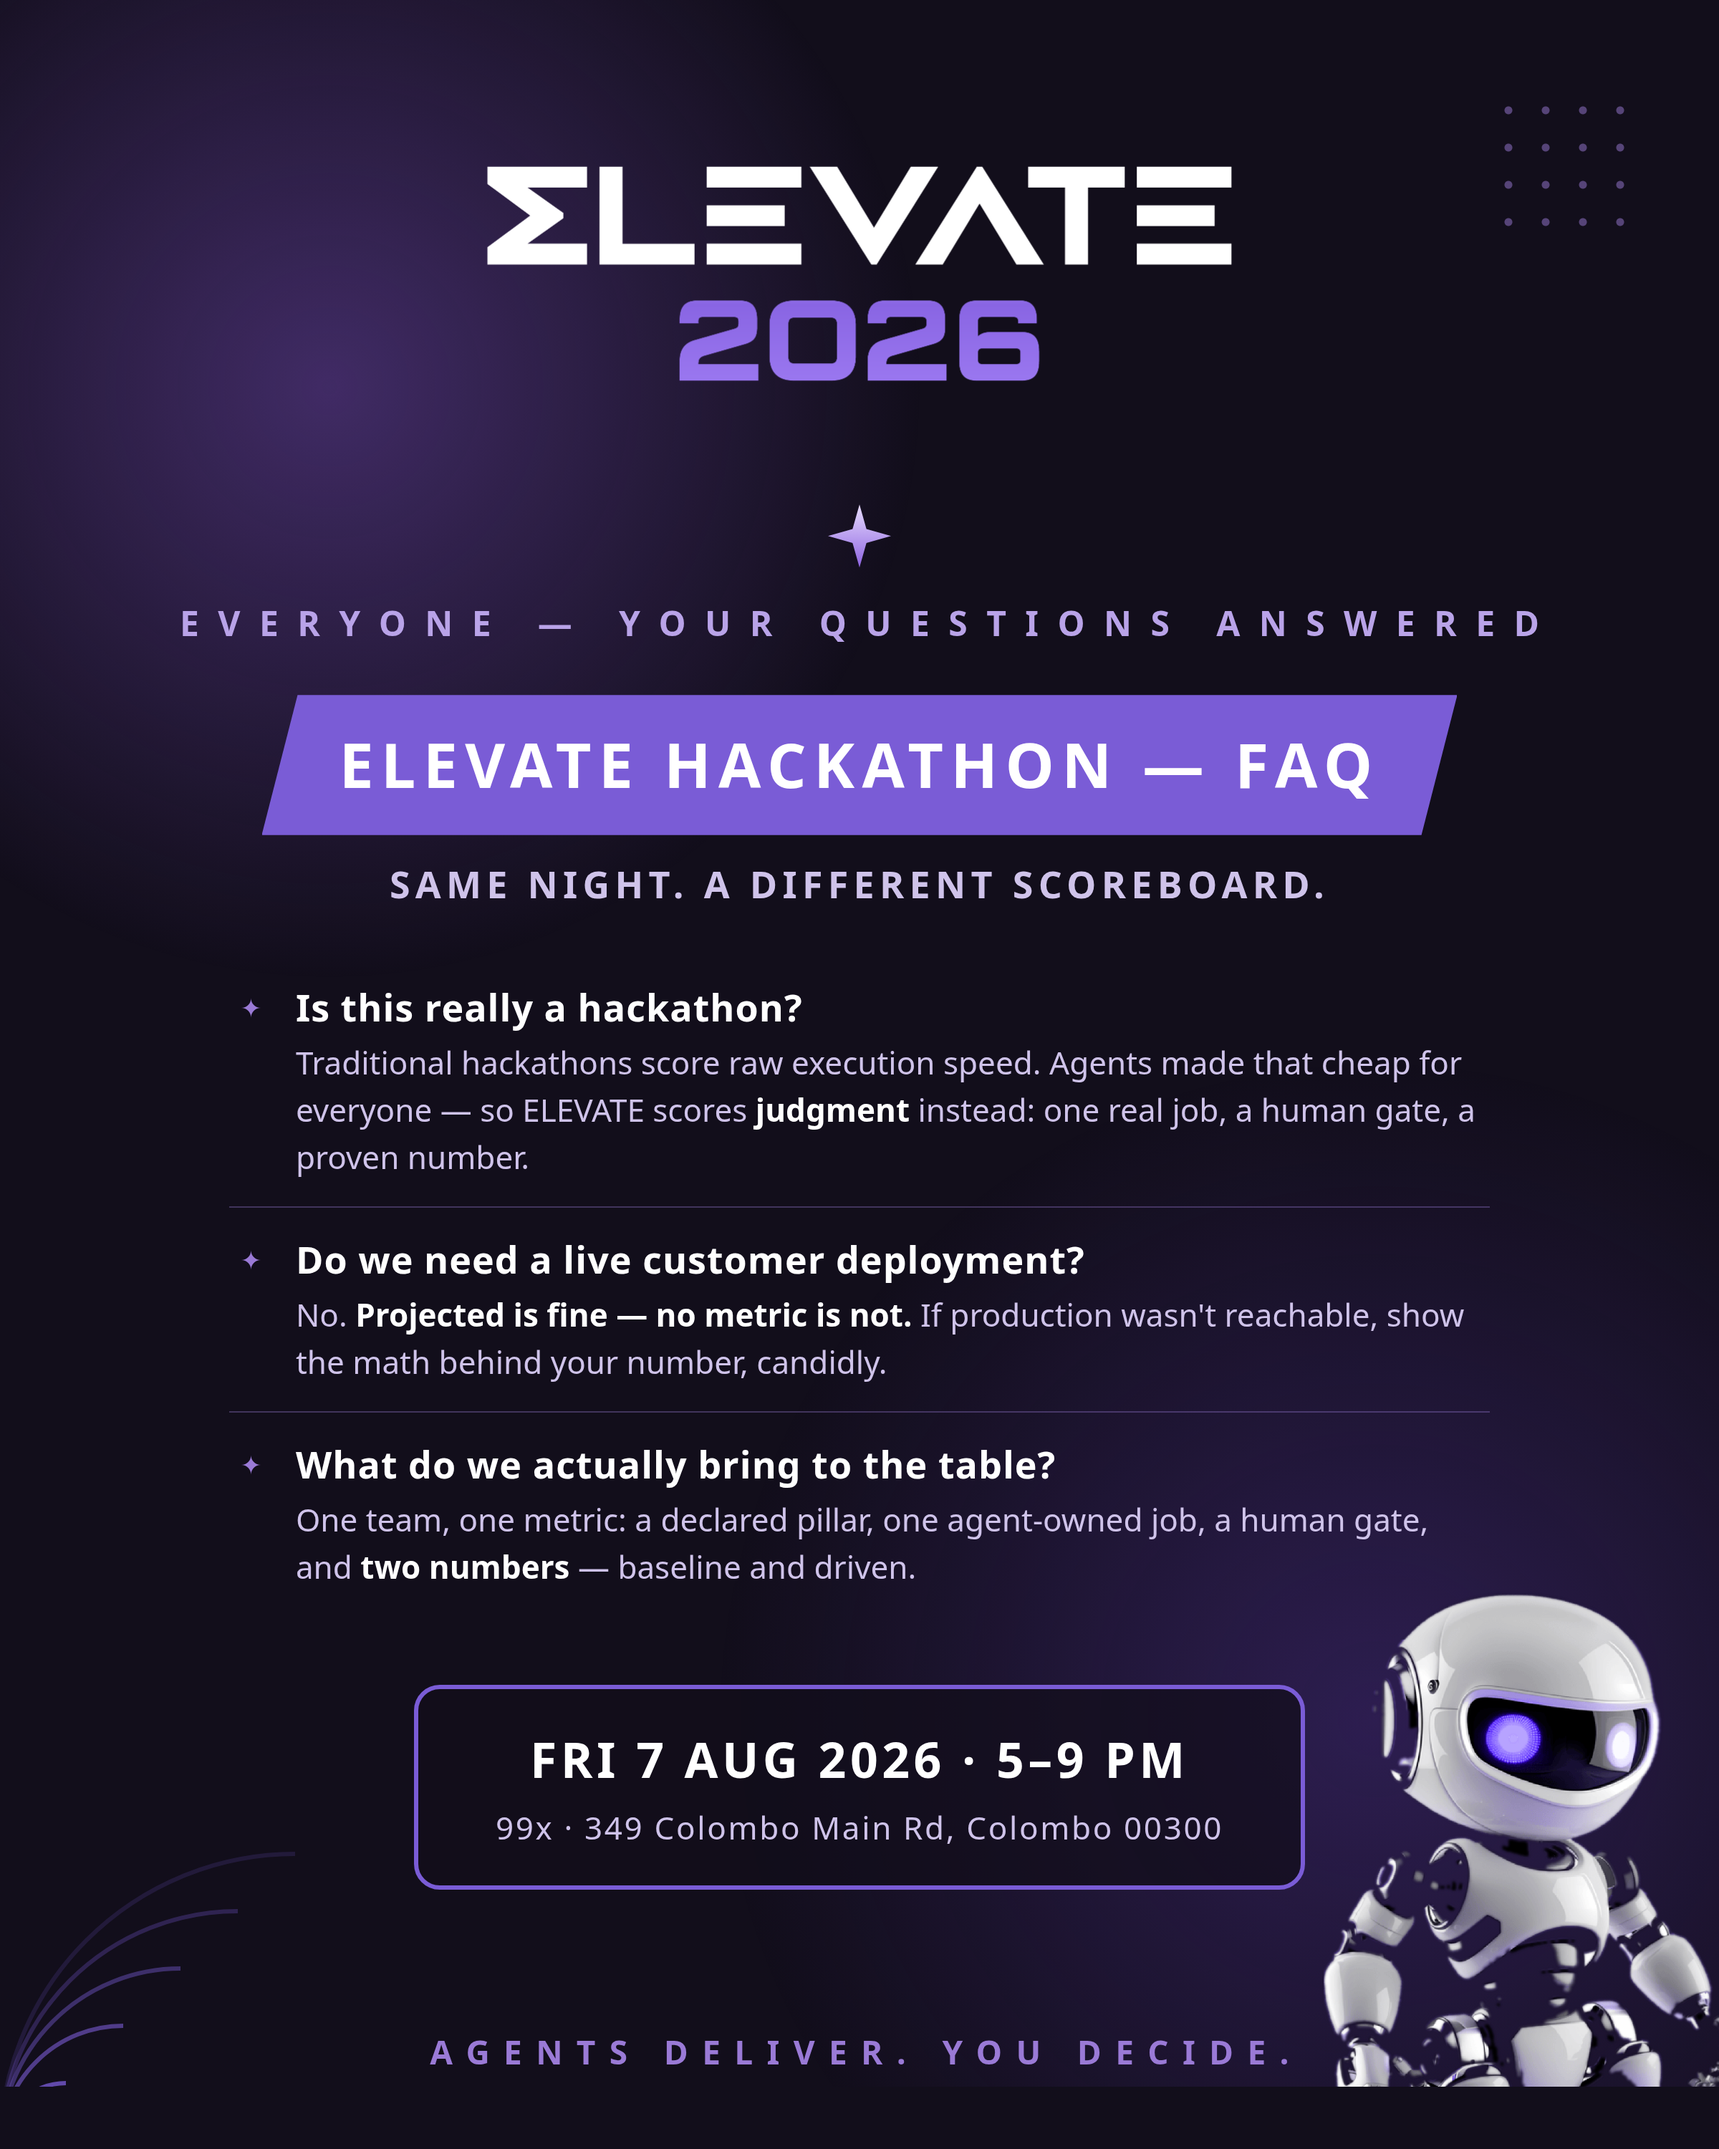
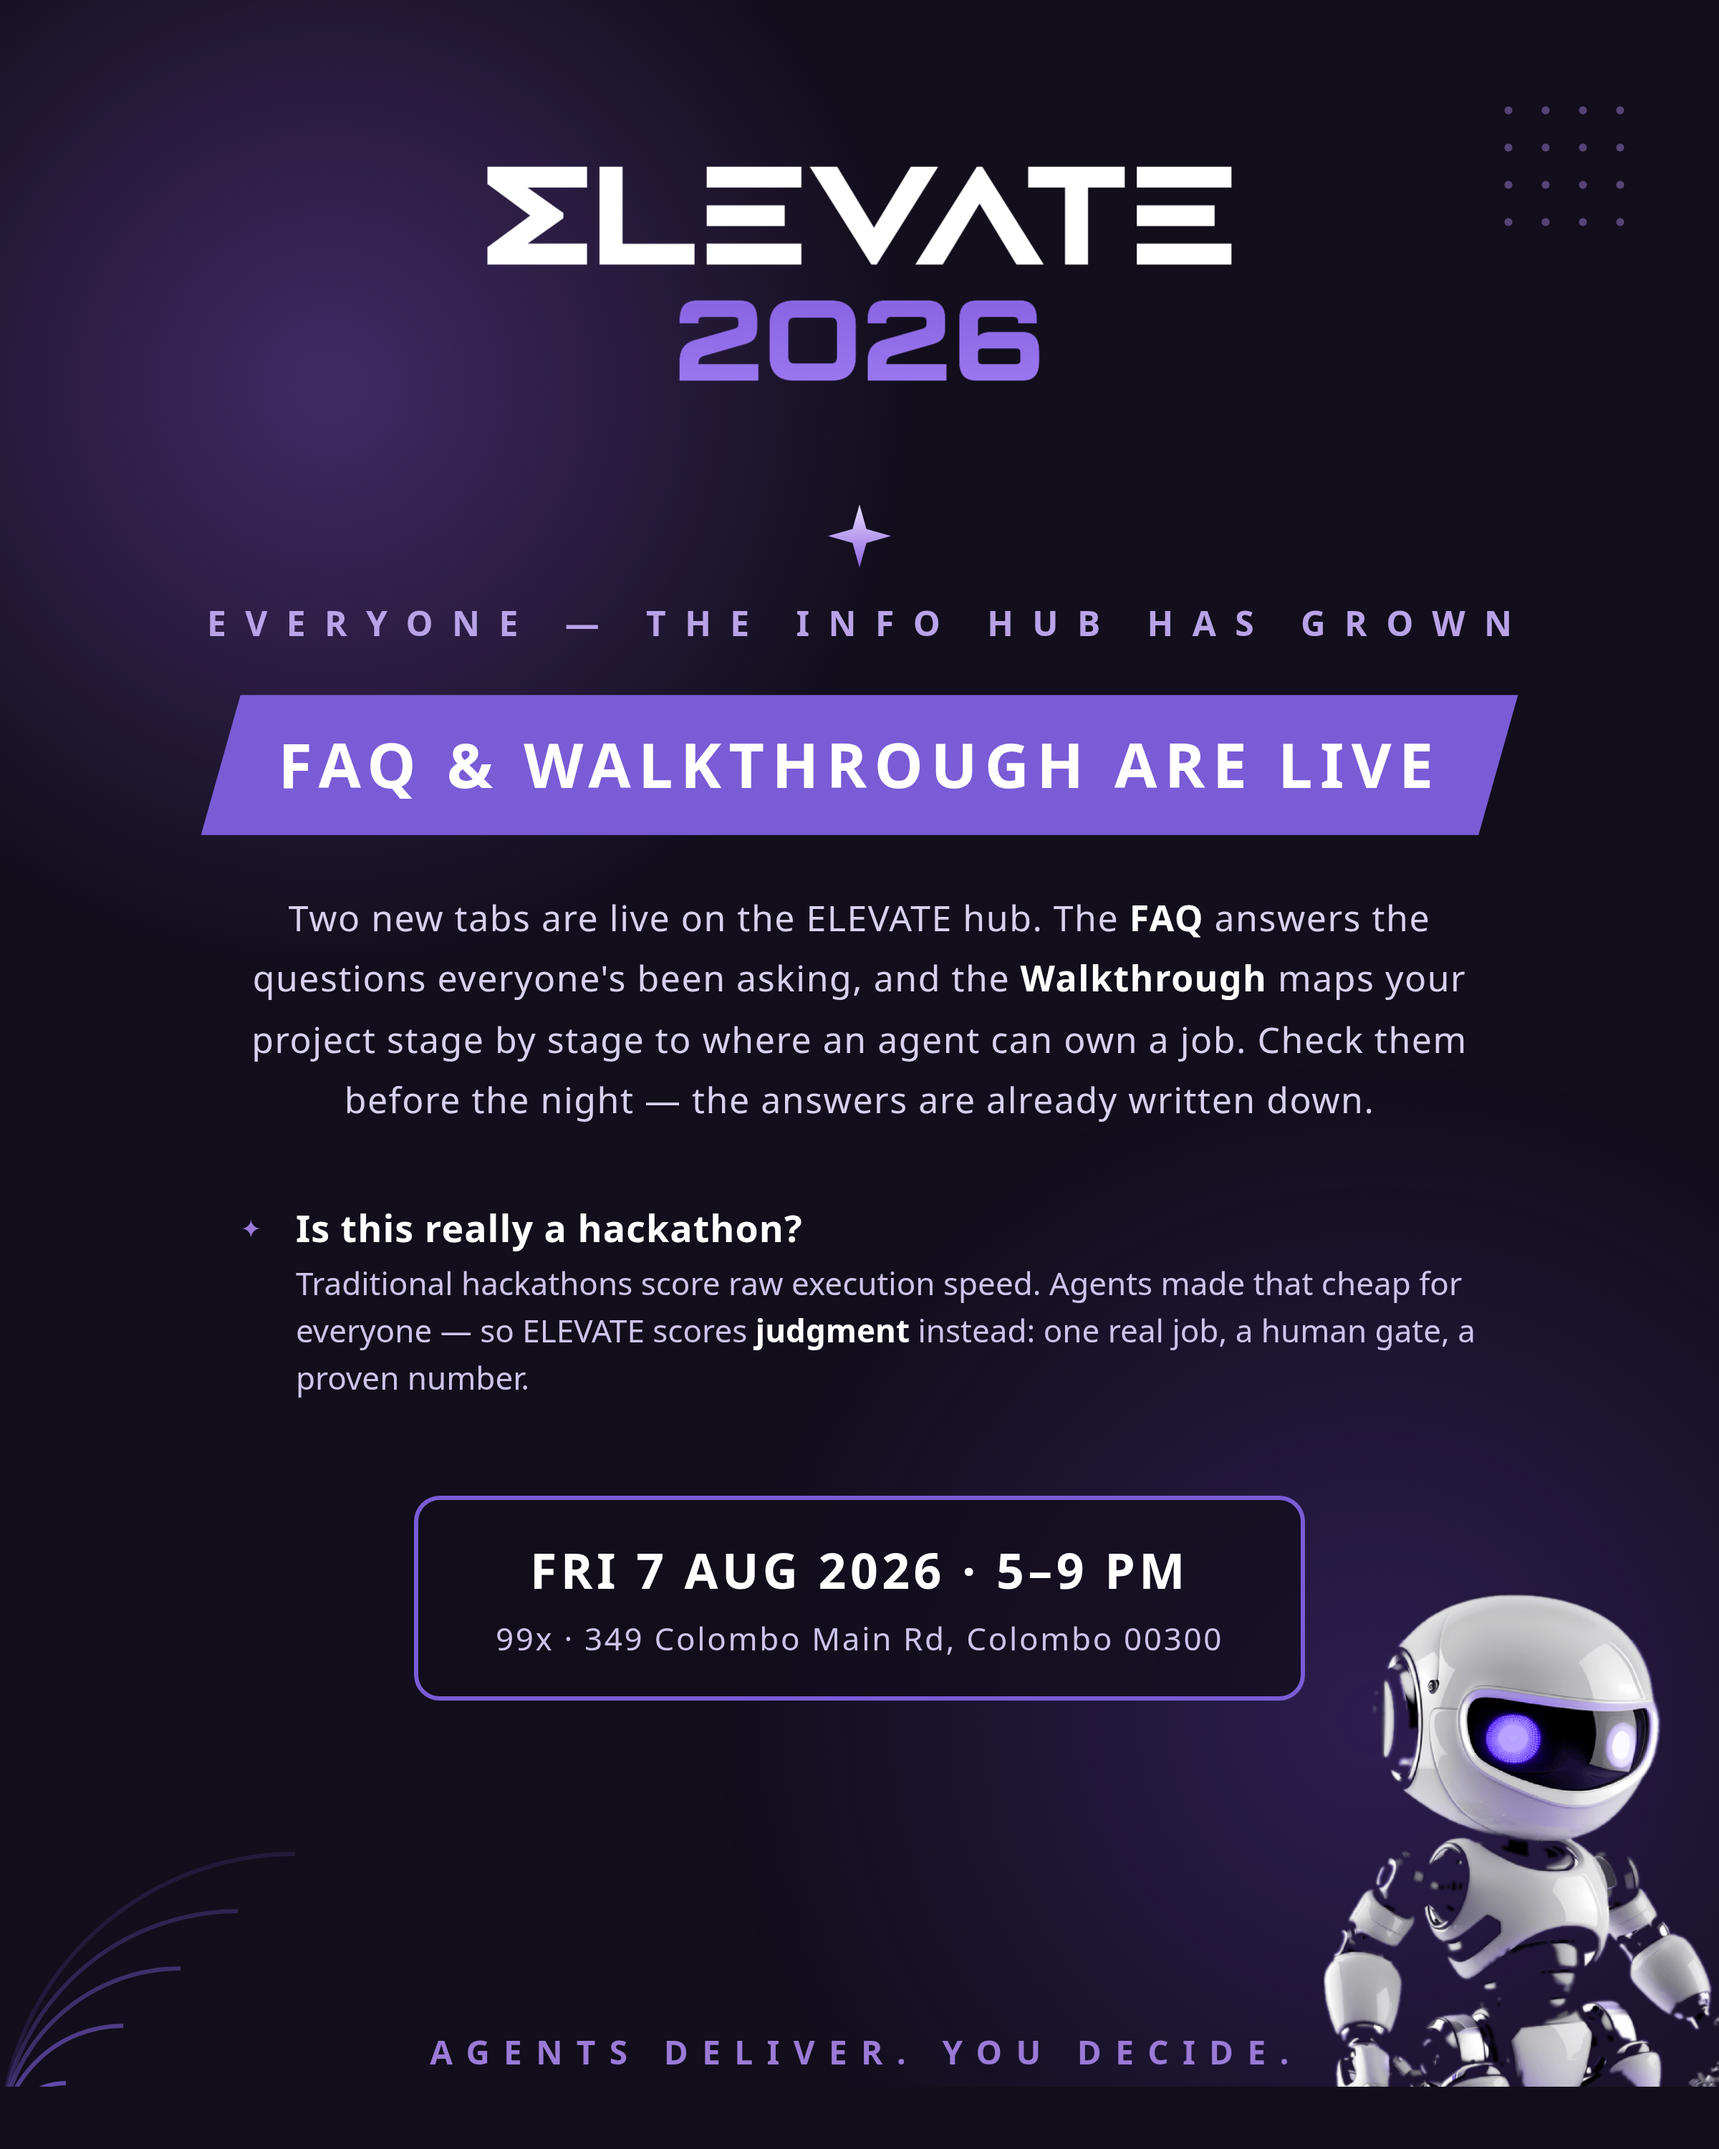
FAQ flyer reworked as announcement: FAQ & Walkthrough are live, single teaser Q, scoreboard line dropped

Changed region(s): [[0.1562, 0.403, 0.8438, 0.899], [0.0938, 0.279, 0.9062, 0.403], [0.375, 0.279, 0.75, 0.31]]

diff --git a/marketing/invites/invite-faq.html b/marketing/invites/invite-faq.html
@@ -51,13 +51,13 @@
   <div class="inner">
     <div class="logo"><img src="../logos/elevate-logo-white-purple.png" alt="ELEVATE 2026"></div>
     <div class="star"></div>
-    <div class="invite">Everyone — your questions answered</div>
-    <div class="bar">ELEVATE Hackathon — FAQ</div>
-    <div class="sub2">Same night. A different scoreboard.</div>
+    <div class="invite">Everyone — the info hub has grown</div>
+    <div class="bar">FAQ &amp; Walkthrough are live</div>
+    <div class="body">Two new tabs are live on the ELEVATE hub. The <b>FAQ</b> answers the questions
+       everyone's been asking, and the <b>Walkthrough</b> maps your project stage by stage to where an
+       agent can own a job. Check them before the night — the answers are already written down.</div>
     <div class="agenda">
       <div class="ag"><div class="n">✦</div><div><div class="t">Is this really a hackathon?</div><div class="d">Traditional hackathons score raw execution speed. Agents made that cheap for everyone — so ELEVATE scores <b>judgment</b> instead: one real job, a human gate, a proven number.</div></div></div>
-      <div class="ag"><div class="n">✦</div><div><div class="t">Do we need a live customer deployment?</div><div class="d">No. <b>Projected is fine — no metric is not.</b> If production wasn't reachable, show the math behind your number, candidly.</div></div></div>
-      <div class="ag"><div class="n">✦</div><div><div class="t">What do we actually bring to the table?</div><div class="d">One team, one metric: a declared pillar, one agent-owned job, a human gate, and <b>two numbers</b> — baseline and driven.</div></div></div>
     </div>
     <div class="when"><div class="d">Fri 7 Aug 2026 · 5–9 PM</div><div class="v">99x · 349 Colombo Main Rd, Colombo 00300</div></div>
     <div class="tag">Agents deliver. You decide.</div>

diff --git a/docs/index.html b/docs/index.html
@@ -1154,9 +1154,9 @@
         <a href="https://raw.githubusercontent.com/asitha-w/ELEVATE2026/main/marketing/invites/invite-event-day.png">print original</a></div>
     </div>
     <div class="mcard">
-      <div class="img dark"><img src="assets/invite-faq.png" alt="ELEVATE Hackathon — FAQ flyer"></div>
-      <div class="cap"><b>ELEVATE Hackathon — FAQ</b> No session dates, just the event date and the reframe —
-        same night, a different scoreboard.
+      <div class="img dark"><img src="assets/invite-faq.png" alt="ELEVATE — FAQ &amp; Walkthrough are live"></div>
+      <div class="cap"><b>FAQ &amp; Walkthrough are live</b> Announcement card — the hub has new answers, read
+        them before the night; one FAQ item as the teaser.
         <a href="https://raw.githubusercontent.com/asitha-w/ELEVATE2026/main/marketing/invites/invite-faq.png">print original</a></div>
     </div>
     <div class="mcard">
